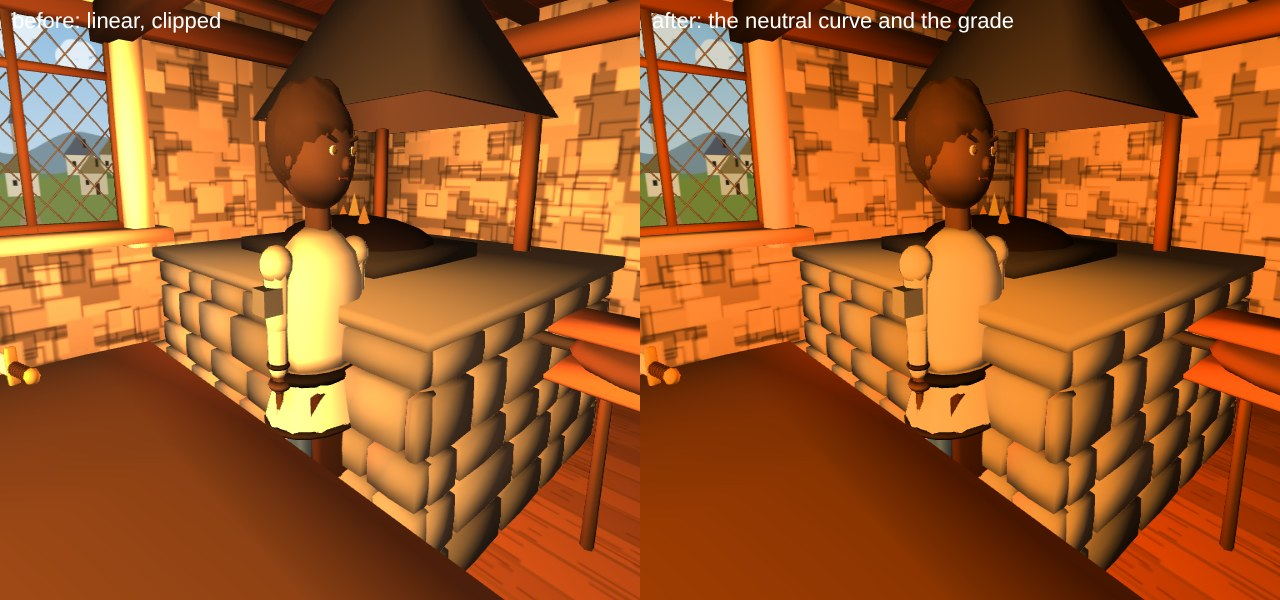
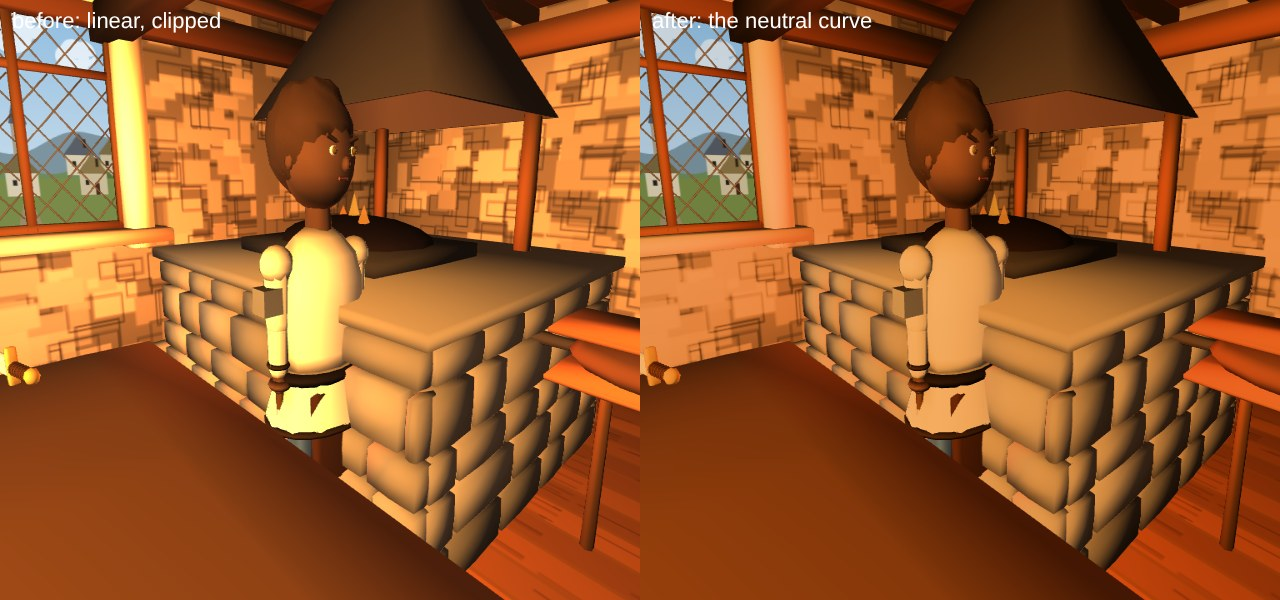
Session 1257: rooms take the neutral curve without the world's grade; the grade moves into the ACES function
Claude-Session: https://claude.ai/code/session_01PYZSCwxQvzPwXkL4kSNvKk

diff --git a/js/89-world-land.js b/js/89-world-land.js
@@ -158,16 +158,20 @@ function landAtmosphere(){
   if(LAND.waterSky){LAND.waterSky.value.copy(_lC.mid).lerp(_lC.hor,.5);LAND.waterSun.value.copy(U.uSun.value);LAND.waterGlint.value=Math.max(0,el)*(1-cloud)*(1-t);}
 }
 // ── the post: ACES and the grade, on the open world's frame only ─────────────────────────────────────────────────
-// No render targets: the grade rides in three's own tone-mapping chunk, so it costs no pass and no draw call. The
-// world scene turns tone mapping on for its own render and off after it, so rooms, gates and the hands keep theirs.
+// No render targets: the grade rides in three's own ACES function, so it costs no pass and no draw call. The world scene
+// turns tone mapping on for its own render and off after it, so gates and the hands keep theirs; rooms take the neutral
+// curve (landRoomPost), which the grade does not touch (Session 1257: it was in the tone-mapping chunk, under every curve).
 // P10b's grade: shadows a touch cool, highlights warm, saturation lifted.
 function landGrade(){
-  if(!THREE.ShaderChunk.tonemapping_fragment.includes('og-grade'))THREE.ShaderChunk.tonemapping_fragment=THREE.ShaderChunk.tonemapping_fragment.replace('#endif',
-`	{ /* og-grade */ vec3 gc = gl_FragColor.rgb; float gl = dot(gc, vec3(.2126, .7152, .0722));
-	  gc *= mix(vec3(.95, .985, 1.05), vec3(1.05, 1., .92), smoothstep(.03, .6, gl));
-	  gc = mix(vec3(gl), gc, 1.14);
-	  gl_FragColor.rgb = max(gc, 0.); }
-#endif`);
+  const C=THREE.ShaderChunk,A='vec3 ACESFilmicToneMapping( vec3 color ) {';
+  if(C.tonemapping_pars_fragment.includes('og-grade'))return;
+  const i=C.tonemapping_pars_fragment.indexOf(A),j=C.tonemapping_pars_fragment.indexOf('return saturate( color );',i);if(i<0||j<0)return;
+  C.tonemapping_pars_fragment=C.tonemapping_pars_fragment.slice(0,i)+
+`vec3 ogGrade( vec3 gc ) { /* og-grade */ float gl = dot(gc, vec3(.2126, .7152, .0722));
+	gc *= mix(vec3(.95, .985, 1.05), vec3(1.05, 1., .92), smoothstep(.03, .6, gl));
+	gc = mix(vec3(gl), gc, 1.14);
+	return max(gc, 0.); }
+`+C.tonemapping_pars_fragment.slice(i,j)+'return ogGrade( saturate( color ) );'+C.tonemapping_pars_fragment.slice(j+'return saturate( color );'.length);
 }
 function landPost(scene){
   if(!LAND.on||scene.userData.landPost)return;scene.userData.landPost=true;landQuality();landGrade();
@@ -176,14 +180,15 @@ function landPost(scene){
   scene.onAfterRender=r=>{r.toneMapping=keep.tm;r.toneMappingExposure=keep.ex;};
   if(!LAND.rawRender){const raw=REN.render.bind(REN);LAND.rawRender=raw;REN.render=(sc2,cam)=>landRender(raw,sc2,cam);} // S1183: bloom wraps the world's frame
 }
-// ── the rooms' post (Session 1257, backlog I, the critic's s782): a generated room's frame tone-mapped, with the grade ──────
+// ── the rooms' post (Session 1257, backlog I, the critic's s782): a generated room's frame tone-mapped ──────────────────
 // A room drew linear and clipped: the shop's lantern (2.2) and the room's warm ambient put about 2.2 on a keeper 3.4 m off, and
 // a forge or a lamp close by more, so skin and pale cloth clipped flat to yellow-white and a dark purple tunic's red channel ran
 // ahead of the rest and read as bare skin. Khronos' neutral curve, not the world's ACES: it is the identity up to about 0.76 and
 // rolls off above it, keeping hue, so a room keeps its brightness and its firelight's orange (ACES greyed both) and a lamp close
-// by shades instead of burning out. No bloom: a room has no target.
+// by shades instead of burning out. Not the world's grade either: its saturation lift on firelight turned plaster orange.
+// No bloom: a room has no target.
 function landRoomPost(scene){
-  if(!LAND.on||!scene||scene.userData.landPost)return;scene.userData.landPost=true;landGrade();
+  if(!LAND.on||!scene||scene.userData.landPost)return;scene.userData.landPost=true;
   const keep={tm:0,ex:1};
   scene.onBeforeRender=r=>{keep.tm=r.toneMapping;keep.ex=r.toneMappingExposure;r.toneMapping=THREE.NeutralToneMapping;r.toneMappingExposure=LAND.roomExposure;};
   scene.onAfterRender=r=>{r.toneMapping=keep.tm;r.toneMappingExposure=keep.ex;};

diff --git a/js/83-world-generator.js b/js/83-world-generator.js
@@ -1599,7 +1599,7 @@ function shellFrame(sc_,o){const {W,D,H,type,st,wallKind,FN,FSEED,beams,wins,TAL
     const gallery=two&&(type==='inn'||type==='guild_f'||type==='guild_m'); /* S896 — a cottage or a shop of true size has no room for a gallery and its stair; the upper floor is the inn's and the guilds' */
     const H=gallery?ceil*1.85:ceil;
     house.intW=W;house.intD=D;
-    const sc_=new THREE.Scene();interiorScene=sc_;landRoomPost(sc_); /* S1257 — the rooms' post on the new look: the neutral curve and the grade (89-world-land.js) */
+    const sc_=new THREE.Scene();interiorScene=sc_;landRoomPost(sc_); /* S1257 — the rooms' post on the new look: the neutral curve (89-world-land.js) */
     sc_.background=new THREE.Color(0x120a06);
     sc_.fog=new THREE.Fog(0x120a06,Math.max(W,D)*.8,Math.max(W,D)*2.4);
     intNPCMesh=null;intBedPos=null;intStashPos=null;

diff --git a/docs/devlog/1257.md b/docs/devlog/1257.md
@@ -1,38 +1,41 @@
 ## v80 — Session 1257 — the rooms' post: a lamp close by shades instead of burning out (backlog I, s782)
 
 The critic found that in Odhrán's Stores at 13h, standing behind the keeper, his dark purple tunic read as bare skin and his
-hands burnt yellow-white, and that the Wayfarer at 22h had a white-yellow patch of wall by a candle. The cause is the frame,
-not the bodies. Session 1180 (F3) put ACES and P10b's grade on the open world's frame only and left rooms drawn as before, linear
-and clipped at 1. A kit shop has the lantern over the room (2.2, warm, falling off over 17 m) and a warm ambient of 0.45. Together
-they put about 2.2 on a keeper 3.4 m off, more by the smithy's forge (1.6 at 0.9 m up), so every pale surface clipped flat. Since
-the light is orange, the red channel clips first, and a purple tunic's red runs ahead of its blue and reads as skin.
+hands burnt yellow-white. The Wayfarer at 22h had a white-yellow patch of wall by a candle. The cause is the frame, not the
+bodies. Session 1180 (F3) put ACES and P10b's grade on the open world's frame only and left rooms drawn as before: linear, and
+clipped at 1. A kit shop has the lantern over the room (2.2, warm, falling off over 17 m) and a warm ambient of 0.45. Together
+they put about 2.2 on a keeper 3.4 m off, and more by the smithy's forge (1.6, 0.9 m up), so every pale surface clipped flat.
+Since the light is orange, red clips first: a purple tunic's red runs ahead of its blue and reads as skin. The same happens to
+the plaster of every firelit cottage, which clipped to yellow-white across most of the wall.
 
 A generated room's scene (`buildInteriorFor` and `buildKitTaproom`, `83-world-generator.js`) now calls `landRoomPost`
 (`89-world-land.js`), the rooms' counterpart of `landPost`. On the new look it turns tone mapping on in the scene's
-`onBeforeRender` and back off in `onAfterRender`, so the hands' scene drawn after keeps theirs. The world's grade chunk is split
-out of `landPost` as `landGrade()` so a room loaded straight from a save gets it too. The curve is Khronos' neutral one
-(`THREE.NeutralToneMapping`, exposure `LAND.roomExposure` = 1), not the world's ACES. I tried four side by side by the smithy's
-forge. ACES stopped the burn but greyed the firelight: the orange walls went beige and the room lost its warmth. AgX greyed it
-more. The neutral curve is the identity up to about 0.76 and rolls off above it while keeping each colour's hue, so a room is as
-bright as before and only what was clipping changes. The grade rides along, as it does outdoors: shadows a touch cool, highlights
-warm, saturation 1.14. Rooms of the legacy zones (`58-interiors-legacy.js`), dungeons and gates are untouched. On the old look
-`landRoomPost` returns at once.
+`onBeforeRender` and back off in `onAfterRender`, so the hands' scene drawn after keeps its own. The curve is Khronos' neutral
+one (`THREE.NeutralToneMapping`, exposure `LAND.roomExposure` = 1). I compared four by the smithy's forge. ACES stopped the burn
+but greyed the firelight: the orange walls went beige. AgX greyed it more. The neutral curve is the identity up to about 0.76 and
+rolls off above it while keeping each colour's hue, so a room is as bright as before and only what was clipping changes.
 
-`f3land`'s last room check said "indoors the frame is not tone-mapped", which was F3's scope (rooms "drawn exactly as before"),
-not a decision of Michael's. It now says the room is tone-mapped with the neutral curve and the renderer goes back to none after it.
+The world's grade is kept off rooms. It was spliced into three's tone-mapping chunk, so it ran under any curve. With it, a
+firelit cottage's plaster went a saturated orange (the 1.14 saturation lift on light that is already orange). `landGrade()`,
+split out of `landPost`, now puts the same grade inside three's `ACESFilmicToneMapping` function as `ogGrade`. The world's
+materials and the bloom composite reach it through ACES exactly as before. Rooms on the neutral curve do not reach it.
+
+Rooms of the legacy zones (`58-interiors-legacy.js`), dungeons and gates are untouched. On the old look `landRoomPost` returns at once.
+
+`f3land`'s last room check said "indoors the frame is not tone-mapped". That was F3's scope (rooms "drawn exactly as before"),
+not a decision of Michael's. It now says the room is tone-mapped with the neutral curve and the renderer goes back to none after
+it. Its post check now finds the grade in the ACES function and not in the neutral one.
 
 ### Verified (headless Chromium)
 - Portclare's shops at 13h, the keeper stood 0.6 m from each lamp of 0.7 or more and seen from both sides (a throwaway check;
-  the keeper's pixels found by rendering with and without him). Pixels with two channels at 250 or more, burnt toward white:
-  Odhrán's Stores 1.6% → 0, Olivier's Smithy 12.9% → 0, Bébinn's Physic 0.9% → 0. Pixels with one channel at 254 or more fall
-  only a little (23.5 → 19.9% at the forge). That is the grade's warm highlights holding red at the top of firelight: the hue of
-  the fire, not a burn.
-- `f3land` 1/1, every check (the room: tone mapping 7, the neutral curve, during the frame and 0 after). The room suites that
-  read pixels: see below.
-- Picture: `docs/prototypes/roompost-forge.jpg` (the smith by his forge, before and after).
+  the keeper's pixels found by rendering with and without him). Keeper pixels with a channel at 254 or more: Odhrán's Stores
+  3.0% → 0, Olivier's Smithy 23.5% → 0, Bébinn's Physic 1.6% → 0. Pixels with two channels at 250 or more, burnt toward
+  white: 1.6, 12.9 and 0.9% → 0.
+- Dunmore's first home at 21h by its hearth, side by side: linear, the curve with the grade, and the curve alone. Linear's walls
+  clip yellow-white; with the grade they read saturated orange; the curve alone gives warm plaster with its shading.
+- Suites: see the PR. Picture: `docs/prototypes/roompost-forge.jpg` (the smith by his forge, before and after).
 
 ### Needs eyes
-- The inn at 22h by a candle (the critic's `-inn-night.png`), and whether rooms now read a touch more saturated than before:
-  the grade's 1.14 is the world's, and rooms never had it.
-- The first-person hands are their own scene and still draw linear (`16-viewmodel.js`, under FREEZE #547): by a lamp they can
-  still burn white, as in the critic's picture. Once F10 lands, that scene can take the same `landRoomPost` indoors.
+- The inn at 22h by a candle (the critic's `-inn-night.png`), and whether rooms now read right next to the street's graded frame.
+- The first-person hands are their own scene and still draw linear (`16-viewmodel.js`, under FREEZE #547). By a lamp they can
+  still burn white, as in the critic's picture. Once F10 lands, that scene can take the neutral curve indoors.

diff --git a/docs/backlog.md b/docs/backlog.md
@@ -399,7 +399,7 @@ The blocky look is inherited, not chosen: ~790 `BoxGeometry` and ~520 cylinders/
 - ~~**Register fixes, quest review run 17, Finding 30** (the guild head's *You still owe us* in a Markman's words for every people)~~ — **done, Session 940** (`OWE_LINES`, four peoples; `cloakguild`, `handback`).
 - ~~**The night watch stuck at the turned lots** (`beat` red on auto/backlog since Session 1138's street layout; QA, 19 Oct): Portclare's watch wedged at a house's corner, Dunmore's Maeve 27 s still~~ — **done, Sessions 1160 and 1166** (S1160 the near-zero slide; S1166 `npcStep` turns the step 20° to 80° along a wall at an angle; `beat`).
 - **s782 — the street door opens into the keeper's bedroom in every kit shop, and the strongbox is free by day** (critic 2026-10-21; for the look builder, rooms for generated buildings, `buildInteriorFor` in `js/83-world-generator.js`): in Portclare's five kit shops `intArrivalZ` puts you 2.2 m inside the south (street) door at z 11.0 of 13.2, and the keeper's room is built across that same end (partition at `D-3.2`, its door at `W*.3`): bed, rug, lamp and strongbox (7.09, 9.23) beside you, the counter and keeper 7.8 m off beyond the shut door. At 13h all five boxes were picked unseen from there, 200 gold, no fine. Steps: `settle('portclare')`, `forceTime(13)`, `goToInterior` on Fionnuala's Stores, read `px,pz` against `WORLD.intDoors[0]`, `WORLD.intBox` and `intNPCMesh`. Session 1240 saw the same in Dunmore's seven. Pictures `docs/critic/2026-10-21-portclare-shop-entry*.png`.
-- ~~**s782 — a lamp within a metre blows out skin and cloth indoors on the new look**~~ — **fixed, Session 1257**: a generated room's frame is tone-mapped on the new look (`landRoomPost`, `89-world-land.js`: the neutral curve, which is the identity to about 0.76 and keeps hue, with the world's grade); with a keeper 0.6 m from each strong lamp in three Portclare shops, pixels burnt to white went from 1.6, 12.9 and 0.9% to 0. Was: (critic 2026-10-21; for the look builder, the rooms' lights, with the bodies builder's eye): Odhrán's Stores at 13h, from behind at 1.6 m by the back lamp, the keeper's dark purple tunic reads as bare pinkish skin and both hands burn yellow-white (no emissive on any mesh); from the front he is right. The Wayfarer at 22h has a white-yellow patch of wall by a candle. Pictures `docs/critic/2026-10-21-portclare-keeper-back.png` against `-keeper-front.png`, `-inn-night.png`.
+- ~~**s782 — a lamp within a metre blows out skin and cloth indoors on the new look**~~ — **fixed, Session 1257**: a generated room's frame is tone-mapped on the new look (`landRoomPost`, `89-world-land.js`: Khronos' neutral curve, the identity to about 0.76 and keeping hue; the world's grade now rides in its ACES function only). With a keeper 0.6 m from each strong lamp in three Portclare shops, his pixels with a channel clipped went from 3.0, 23.5 and 1.6% to 0. Was: (critic 2026-10-21; for the look builder, the rooms' lights, with the bodies builder's eye): Odhrán's Stores at 13h, from behind at 1.6 m by the back lamp, the keeper's dark purple tunic reads as bare pinkish skin and both hands burn yellow-white (no emissive on any mesh); from the front he is right. The Wayfarer at 22h has a white-yellow patch of wall by a candle. Pictures `docs/critic/2026-10-21-portclare-keeper-back.png` against `-keeper-front.png`, `-inn-night.png`.
 
 ## J. Design proposals wanted (Michael, 27 Sep 2026)
 Michael wants to hear proposals from the team before anything is built. Each proposal is a page in `docs/design/<topic>.md`: the problem in his words, 2–3 directions with a recommendation, what it displaces, cost in sessions. Nothing here is a spec until it carries a `Michael:` line in docs/decisions.md. His brief is `docs/design_brief.md`.
